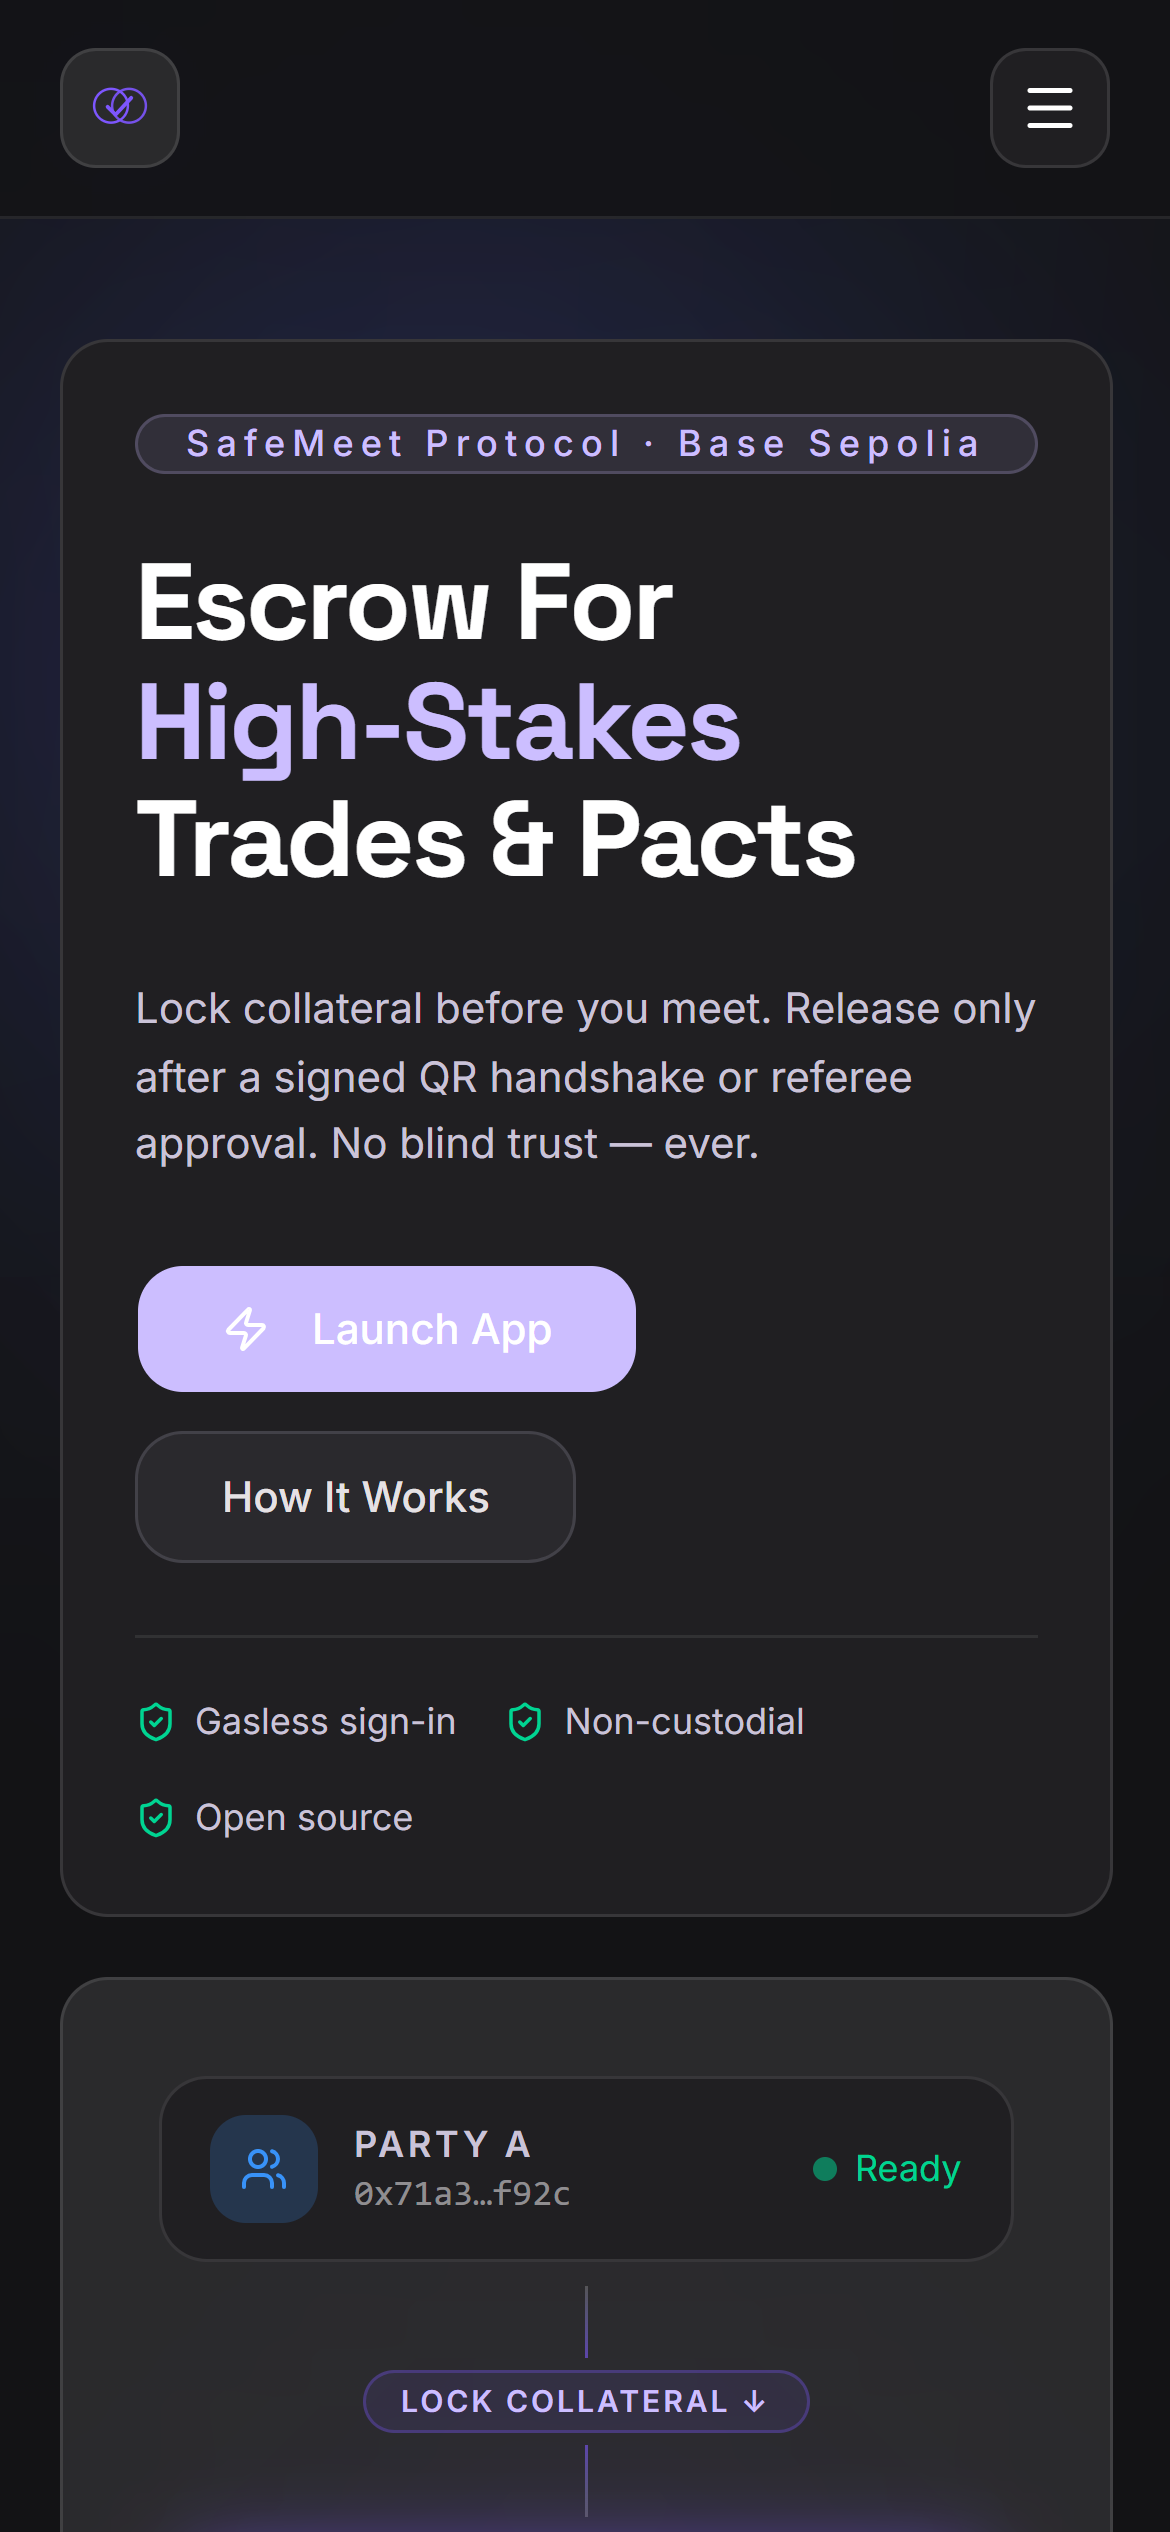
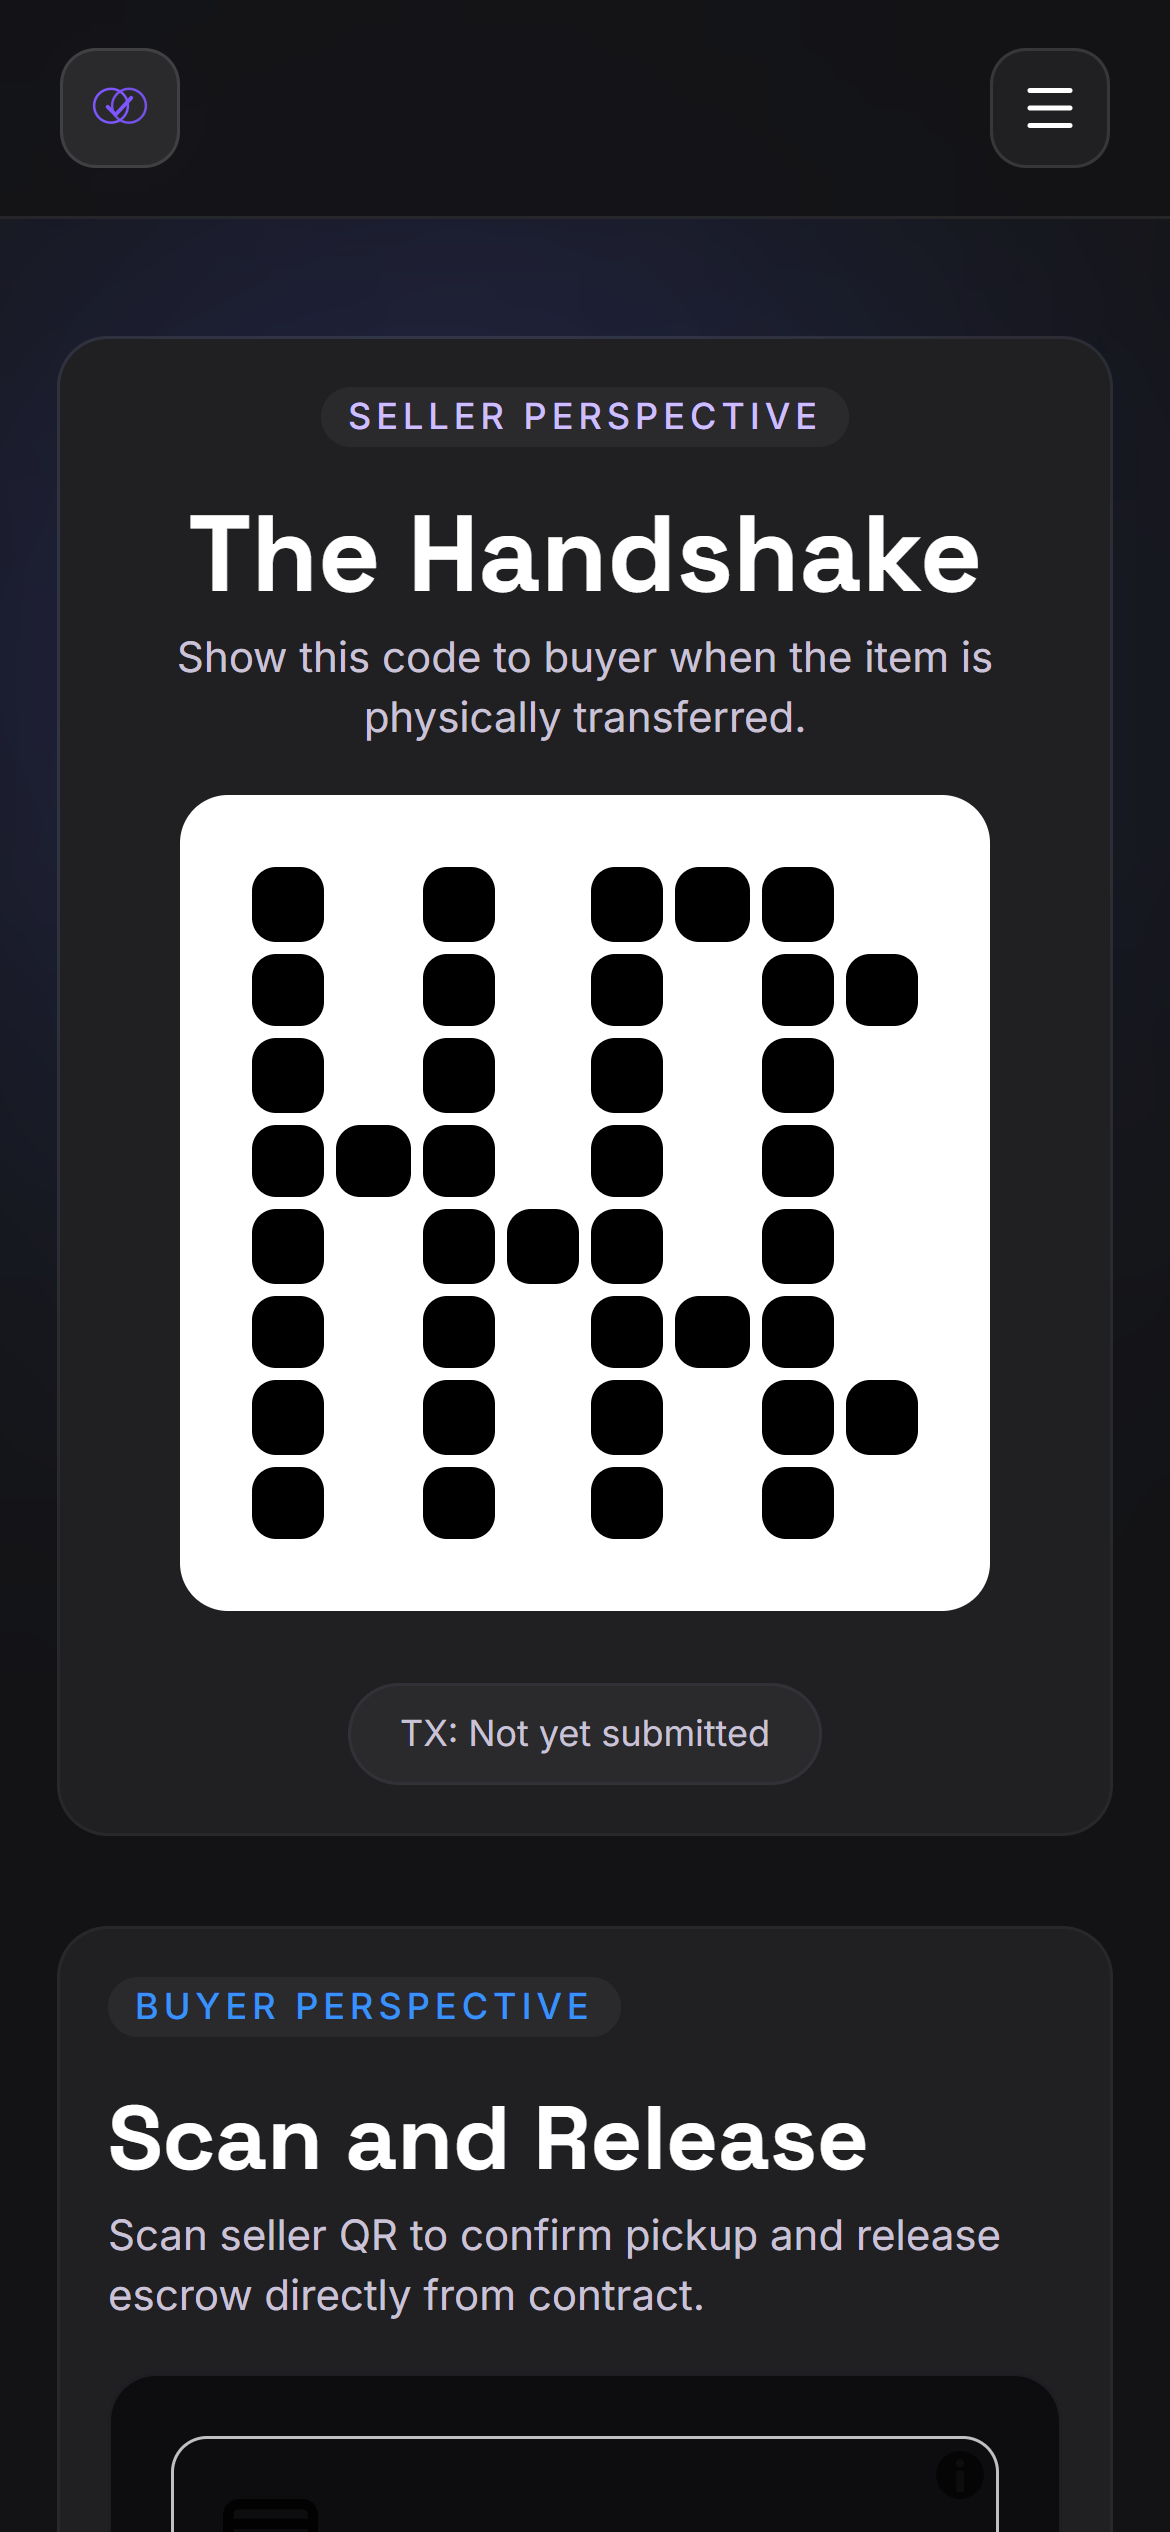
feat: cleaner iPhone mockup with QR handshake screenshot + feature pills
- New screenshot: QR handshake page (more visually distinctive than hero)
- Cleaner phone shell: gradient titanium frame, no side button clutter
- Feature pills under the phone: QR Handshake, Non-custodial, Instant release
- Removed standalone EscrowDiagram section from landing page

diff --git a/apps/web/src/app/page.tsx b/apps/web/src/app/page.tsx
@@ -3,7 +3,7 @@
 import Link from "next/link";
 import Image from "next/image";
 import { useQuery } from "@tanstack/react-query";
-import { Lock, QrCode, ShieldCheck, ArrowRight, Zap, Users, Target, CheckCircle } from "lucide-react";
+import { QrCode, ShieldCheck, ArrowRight, Zap, Target, CheckCircle } from "lucide-react";
 import { PageFrame } from "@/components/page-frame";
 import { Badge } from "@/components/ui/badge";
 import { buttonVariants } from "@/components/ui/button";
@@ -59,114 +59,72 @@ const FLOW = [
   },
 ];
 
-function EscrowDiagram() {
-  return (
-    <div className="relative flex h-full flex-col items-center justify-center gap-0 overflow-hidden rounded-2xl border border-white/10 bg-surface-high p-8 select-none">
-      <div className="pointer-events-none absolute inset-0 flex items-center justify-center">
-        <div className="h-48 w-48 rounded-full bg-primary-container/10 blur-3xl" />
-      </div>
-      <div className="relative z-10 flex w-full max-w-xs items-center gap-3 rounded-xl border border-white/10 bg-surface px-4 py-3">
-        <div className="flex h-9 w-9 flex-shrink-0 items-center justify-center rounded-lg bg-secondary-container/20 text-secondary-container">
-          <Users className="h-4 w-4" />
-        </div>
-        <div className="min-w-0">
-          <p className="text-xs font-semibold uppercase tracking-widest text-on-surface-variant">Party A</p>
-          <p className="font-mono text-xs text-white/50">0x71a3…f92c</p>
-        </div>
-        <div className="ml-auto flex items-center gap-1.5">
-          <span className="h-2 w-2 animate-pulse rounded-full bg-emerald-400" />
-          <span className="text-xs text-emerald-400">Ready</span>
-        </div>
-      </div>
-      <div className="relative z-10 flex flex-col items-center py-2">
-        <div className="h-6 w-px bg-gradient-to-b from-white/20 to-primary-container/60" />
-        <p className="my-1 rounded-full border border-primary-container/30 bg-primary-container/10 px-3 py-0.5 text-[10px] font-semibold uppercase tracking-widest text-primary">Lock Collateral ↓</p>
-        <div className="h-6 w-px bg-gradient-to-b from-primary-container/60 to-white/20" />
-      </div>
-      <div className="relative z-10 flex w-full max-w-xs flex-col items-center gap-2 rounded-xl border border-primary-container/40 bg-surface p-4 shadow-[0_0_30px_-10px_#7d56fe]">
-        <div className="flex h-10 w-10 items-center justify-center rounded-full border border-primary-container/30 bg-primary-container/20 text-primary">
-          <Lock className="h-5 w-5" />
-        </div>
-        <div className="text-center">
-          <p className="text-xs font-semibold uppercase tracking-widest text-on-surface-variant">Escrow Vault</p>
-          <p className="font-headline text-2xl font-bold text-white">0.5 ETH</p>
-          <p className="text-[10px] text-on-surface-variant">Locked on Flow EVM</p>
-        </div>
-        <div className="flex w-full items-center justify-center gap-2 rounded-lg border border-white/8 bg-surface-high px-3 py-1.5">
-          <ShieldCheck className="h-3 w-3 text-emerald-400" />
-          <span className="text-[10px] font-medium text-emerald-400">Smart contract secured</span>
-        </div>
-      </div>
-      <div className="relative z-10 flex flex-col items-center py-2">
-        <div className="h-6 w-px bg-gradient-to-b from-white/20 to-secondary-container/60" />
-        <p className="my-1 rounded-full border border-secondary-container/30 bg-secondary-container/10 px-3 py-0.5 text-[10px] font-semibold uppercase tracking-widest text-secondary-container">QR Handshake ↓</p>
-        <div className="h-6 w-px bg-gradient-to-b from-secondary-container/60 to-white/20" />
-      </div>
-      <div className="relative z-10 flex w-full max-w-xs items-center gap-3 rounded-xl border border-white/10 bg-surface px-4 py-3">
-        <div className="flex h-9 w-9 flex-shrink-0 items-center justify-center rounded-lg bg-secondary-container/20 text-secondary-container">
-          <Users className="h-4 w-4" />
-        </div>
-        <div className="min-w-0">
-          <p className="text-xs font-semibold uppercase tracking-widest text-on-surface-variant">Party B</p>
-          <p className="font-mono text-xs text-white/50">0xb4e1…a31d</p>
-        </div>
-        <div className="ml-auto flex items-center gap-1.5">
-          <QrCode className="h-3.5 w-3.5 text-on-surface-variant" />
-          <span className="text-xs text-on-surface-variant">Awaiting scan</span>
-        </div>
-      </div>
-    </div>
-  );
-}
-
 function IPhoneMockup() {
   return (
-    <div className="relative flex h-full min-h-[480px] items-center justify-center overflow-hidden rounded-2xl border border-white/10 bg-surface-high py-8">
-      {/* Ambient glow behind phone */}
+    <div className="relative flex h-full min-h-[480px] items-center justify-center overflow-hidden rounded-2xl border border-white/10 bg-surface-high py-10">
+      {/* Ambient glow */}
       <div className="pointer-events-none absolute inset-0 flex items-center justify-center">
-        <div className="h-80 w-64 rounded-full bg-primary-container/20 blur-3xl" />
+        <div className="h-96 w-72 rounded-full bg-primary-container/15 blur-3xl" />
       </div>
 
-      {/* iPhone shell */}
-      <div className="relative z-10 flex flex-col" style={{ width: 220 }}>
-        {/* Phone body */}
+      {/* Phone */}
+      <div className="relative z-10" style={{ width: 260 }}>
+        {/* Outer frame */}
         <div
-          className="relative overflow-hidden rounded-[38px] border-[6px] shadow-[0_0_0_1px_rgba(255,255,255,0.08),0_32px_64px_-16px_rgba(0,0,0,0.8)]"
+          className="relative overflow-hidden"
           style={{
-            borderColor: "#1c1c1e",
-            background: "#000",
-            boxShadow: "0 0 0 1px rgba(255,255,255,0.12), inset 0 0 0 1px rgba(255,255,255,0.04), 0 40px 80px -20px rgba(0,0,0,0.9)",
+            borderRadius: 44,
+            padding: 3,
+            background: "linear-gradient(145deg, #3a3a3c 0%, #1c1c1e 60%, #2a2a2c 100%)",
+            boxShadow: "0 0 0 0.5px rgba(255,255,255,0.08), 0 32px 80px -16px rgba(0,0,0,0.95), inset 0 1px 0 rgba(255,255,255,0.1)",
           }}
         >
-          {/* Side buttons (left) */}
-          <div className="absolute -left-[8px] top-[72px] h-8 w-[4px] rounded-l-full bg-[#2a2a2a]" />
-          <div className="absolute -left-[8px] top-[112px] h-12 w-[4px] rounded-l-full bg-[#2a2a2a]" />
-          <div className="absolute -left-[8px] top-[136px] h-12 w-[4px] rounded-l-full bg-[#2a2a2a]" />
-          {/* Power button (right) */}
-          <div className="absolute -right-[8px] top-[100px] h-16 w-[4px] rounded-r-full bg-[#2a2a2a]" />
-
-          {/* Screen bezel top */}
-          <div className="relative bg-black px-0 pt-0">
+          {/* Inner screen */}
+          <div style={{ borderRadius: 42, overflow: "hidden", background: "#000", position: "relative" }}>
             {/* Dynamic Island */}
-            <div className="absolute left-1/2 top-[10px] z-20 h-[14px] w-[60px] -translate-x-1/2 rounded-full bg-black" />
-
-            {/* Screenshot */}
+            <div style={{
+              position: "absolute",
+              top: 12,
+              left: "50%",
+              transform: "translateX(-50%)",
+              width: 120,
+              height: 34,
+              borderRadius: 20,
+              background: "#000",
+              zIndex: 10,
+            }} />
             <Image
               src="/illustrations/app-mobile-screenshot.png"
-              alt="SafeMeet app on mobile"
+              alt="SafeMeet QR handshake on mobile"
               width={390}
               height={844}
               className="w-full"
-              style={{ display: "block", borderRadius: "32px" }}
+              style={{ display: "block" }}
               priority
             />
           </div>
         </div>
 
-        {/* Reflection / label */}
-        <p className="mt-5 text-center text-[10px] font-semibold uppercase tracking-[0.2em] text-on-surface-variant">
+        <p className="mt-4 text-center text-[10px] font-semibold uppercase tracking-[0.2em] text-on-surface-variant">
           Live on Flow EVM & Base
         </p>
+
+        {/* Feature pills */}
+        <div className="mt-5 flex flex-wrap justify-center gap-2">
+          {[
+            { icon: QrCode, label: "QR Handshake" },
+            { icon: ShieldCheck, label: "Non-custodial" },
+            { icon: Zap, label: "Instant release" },
+          ].map(({ icon: Icon, label }) => (
+            <span
+              key={label}
+              className="flex items-center gap-1.5 rounded-full border border-white/10 bg-surface px-3 py-1 text-[11px] font-medium text-on-surface-variant"
+            >
+              <Icon className="h-3 w-3 text-primary" />
+              {label}
+            </span>
+          ))}
+        </div>
       </div>
     </div>
   );
@@ -259,11 +217,6 @@ export default function Home() {
               );
             })}
           </div>
-        </div>
-
-        {/* ── Escrow diagram ── */}
-        <div className="mx-auto w-full max-w-sm">
-          <EscrowDiagram />
         </div>
 
         {/* ── Live stats ── */}
